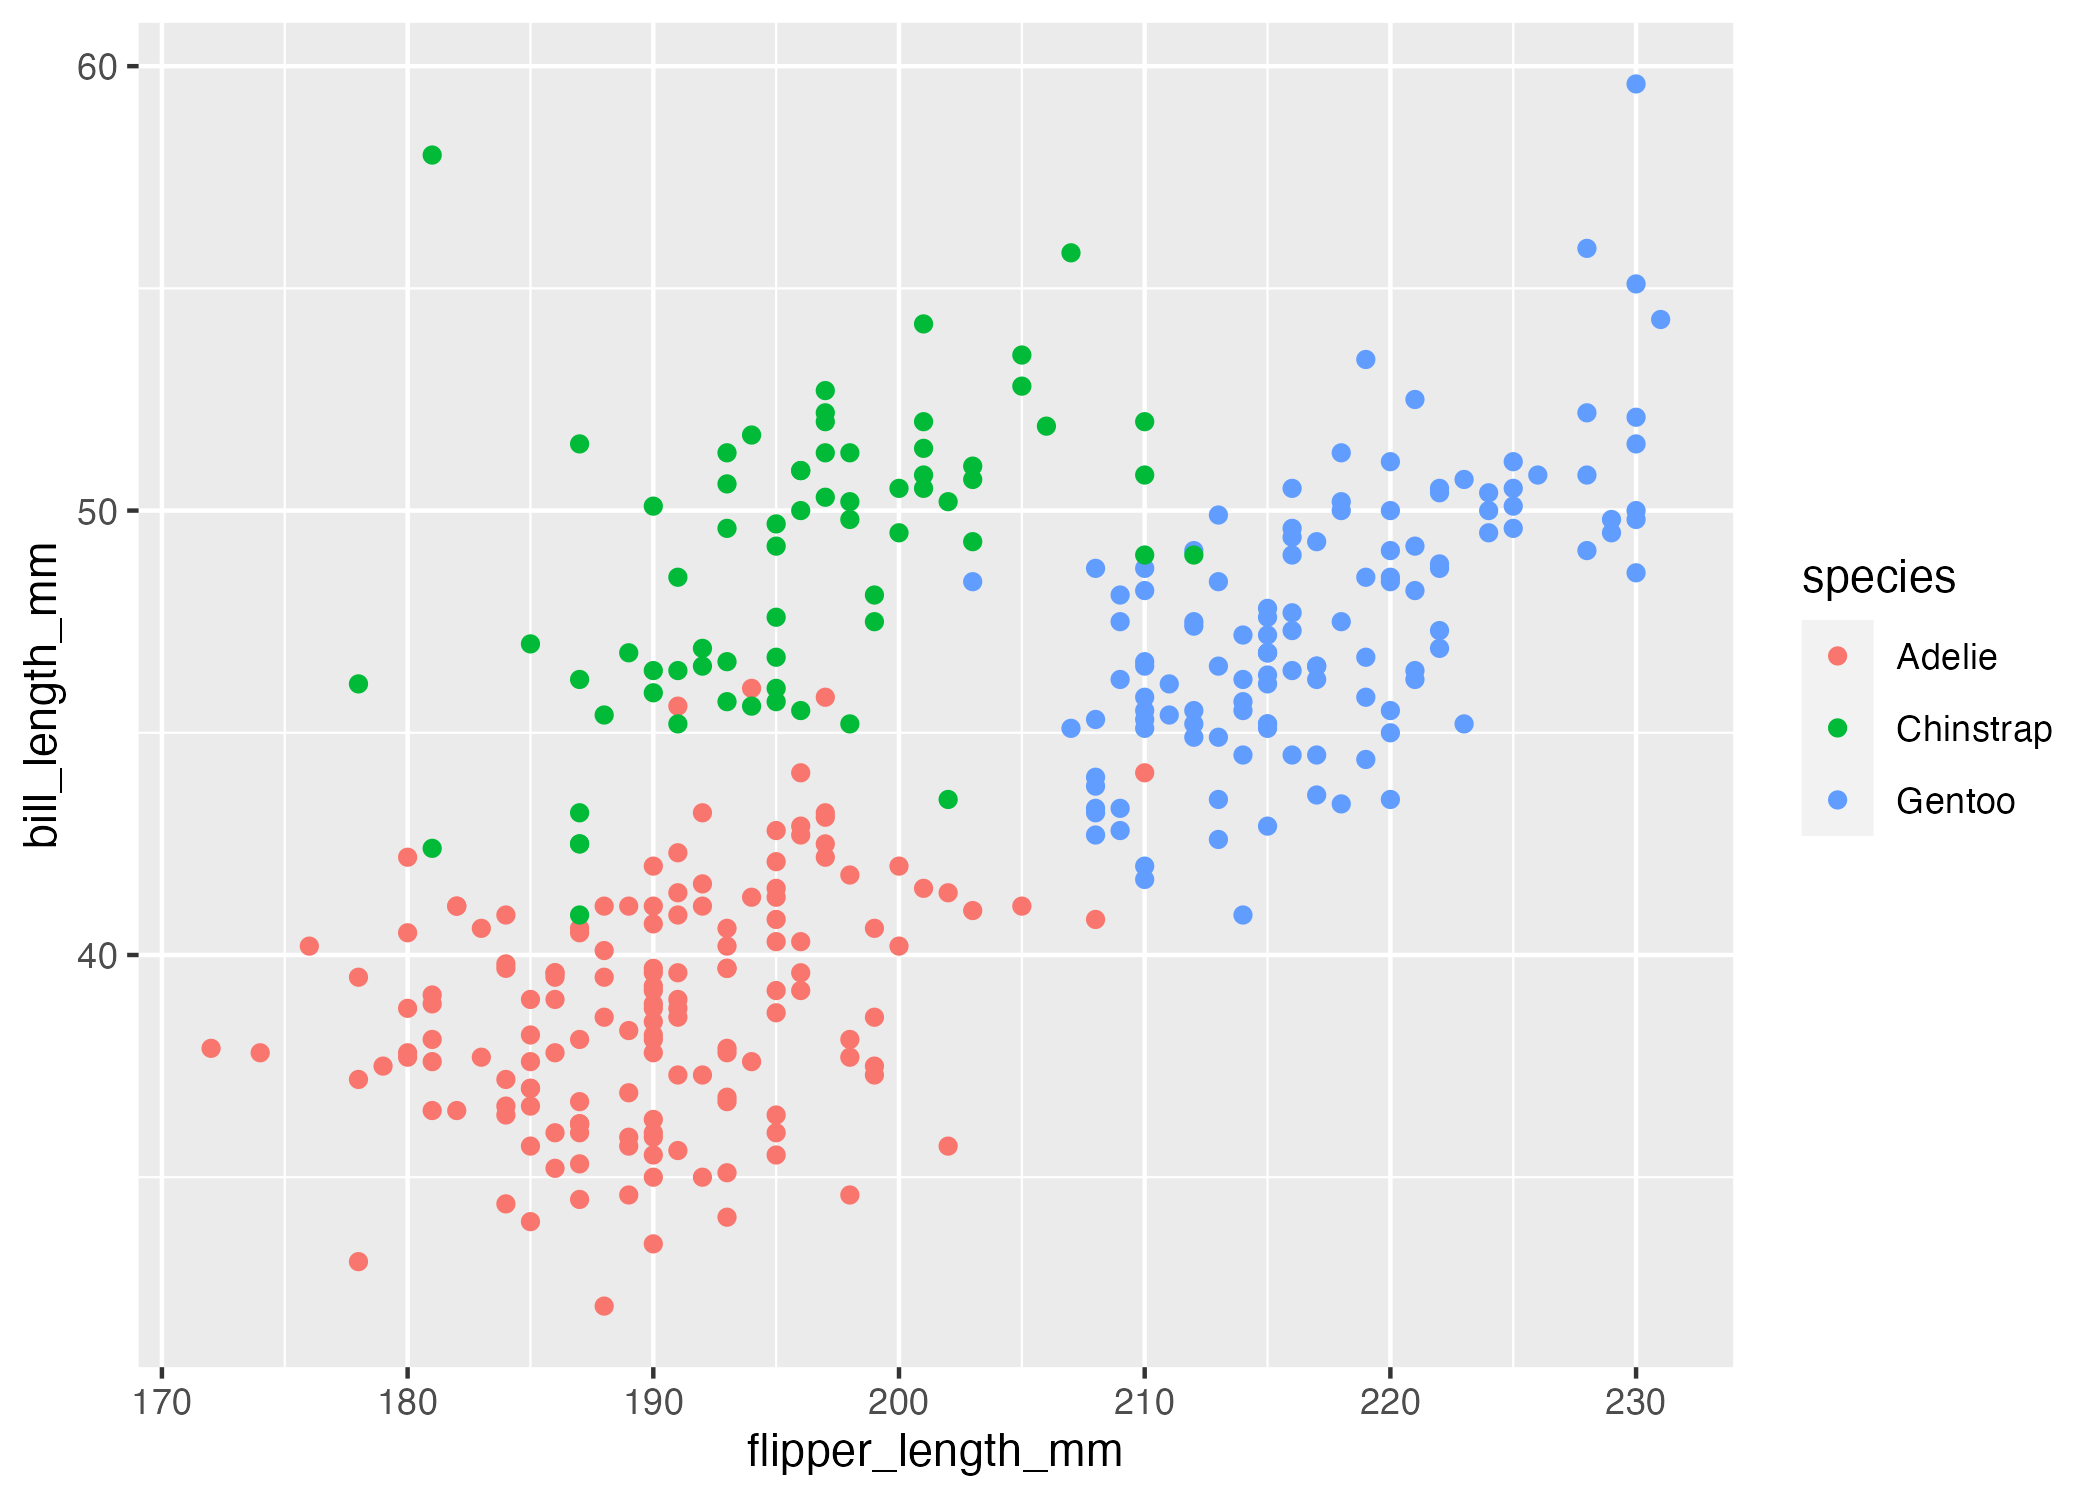
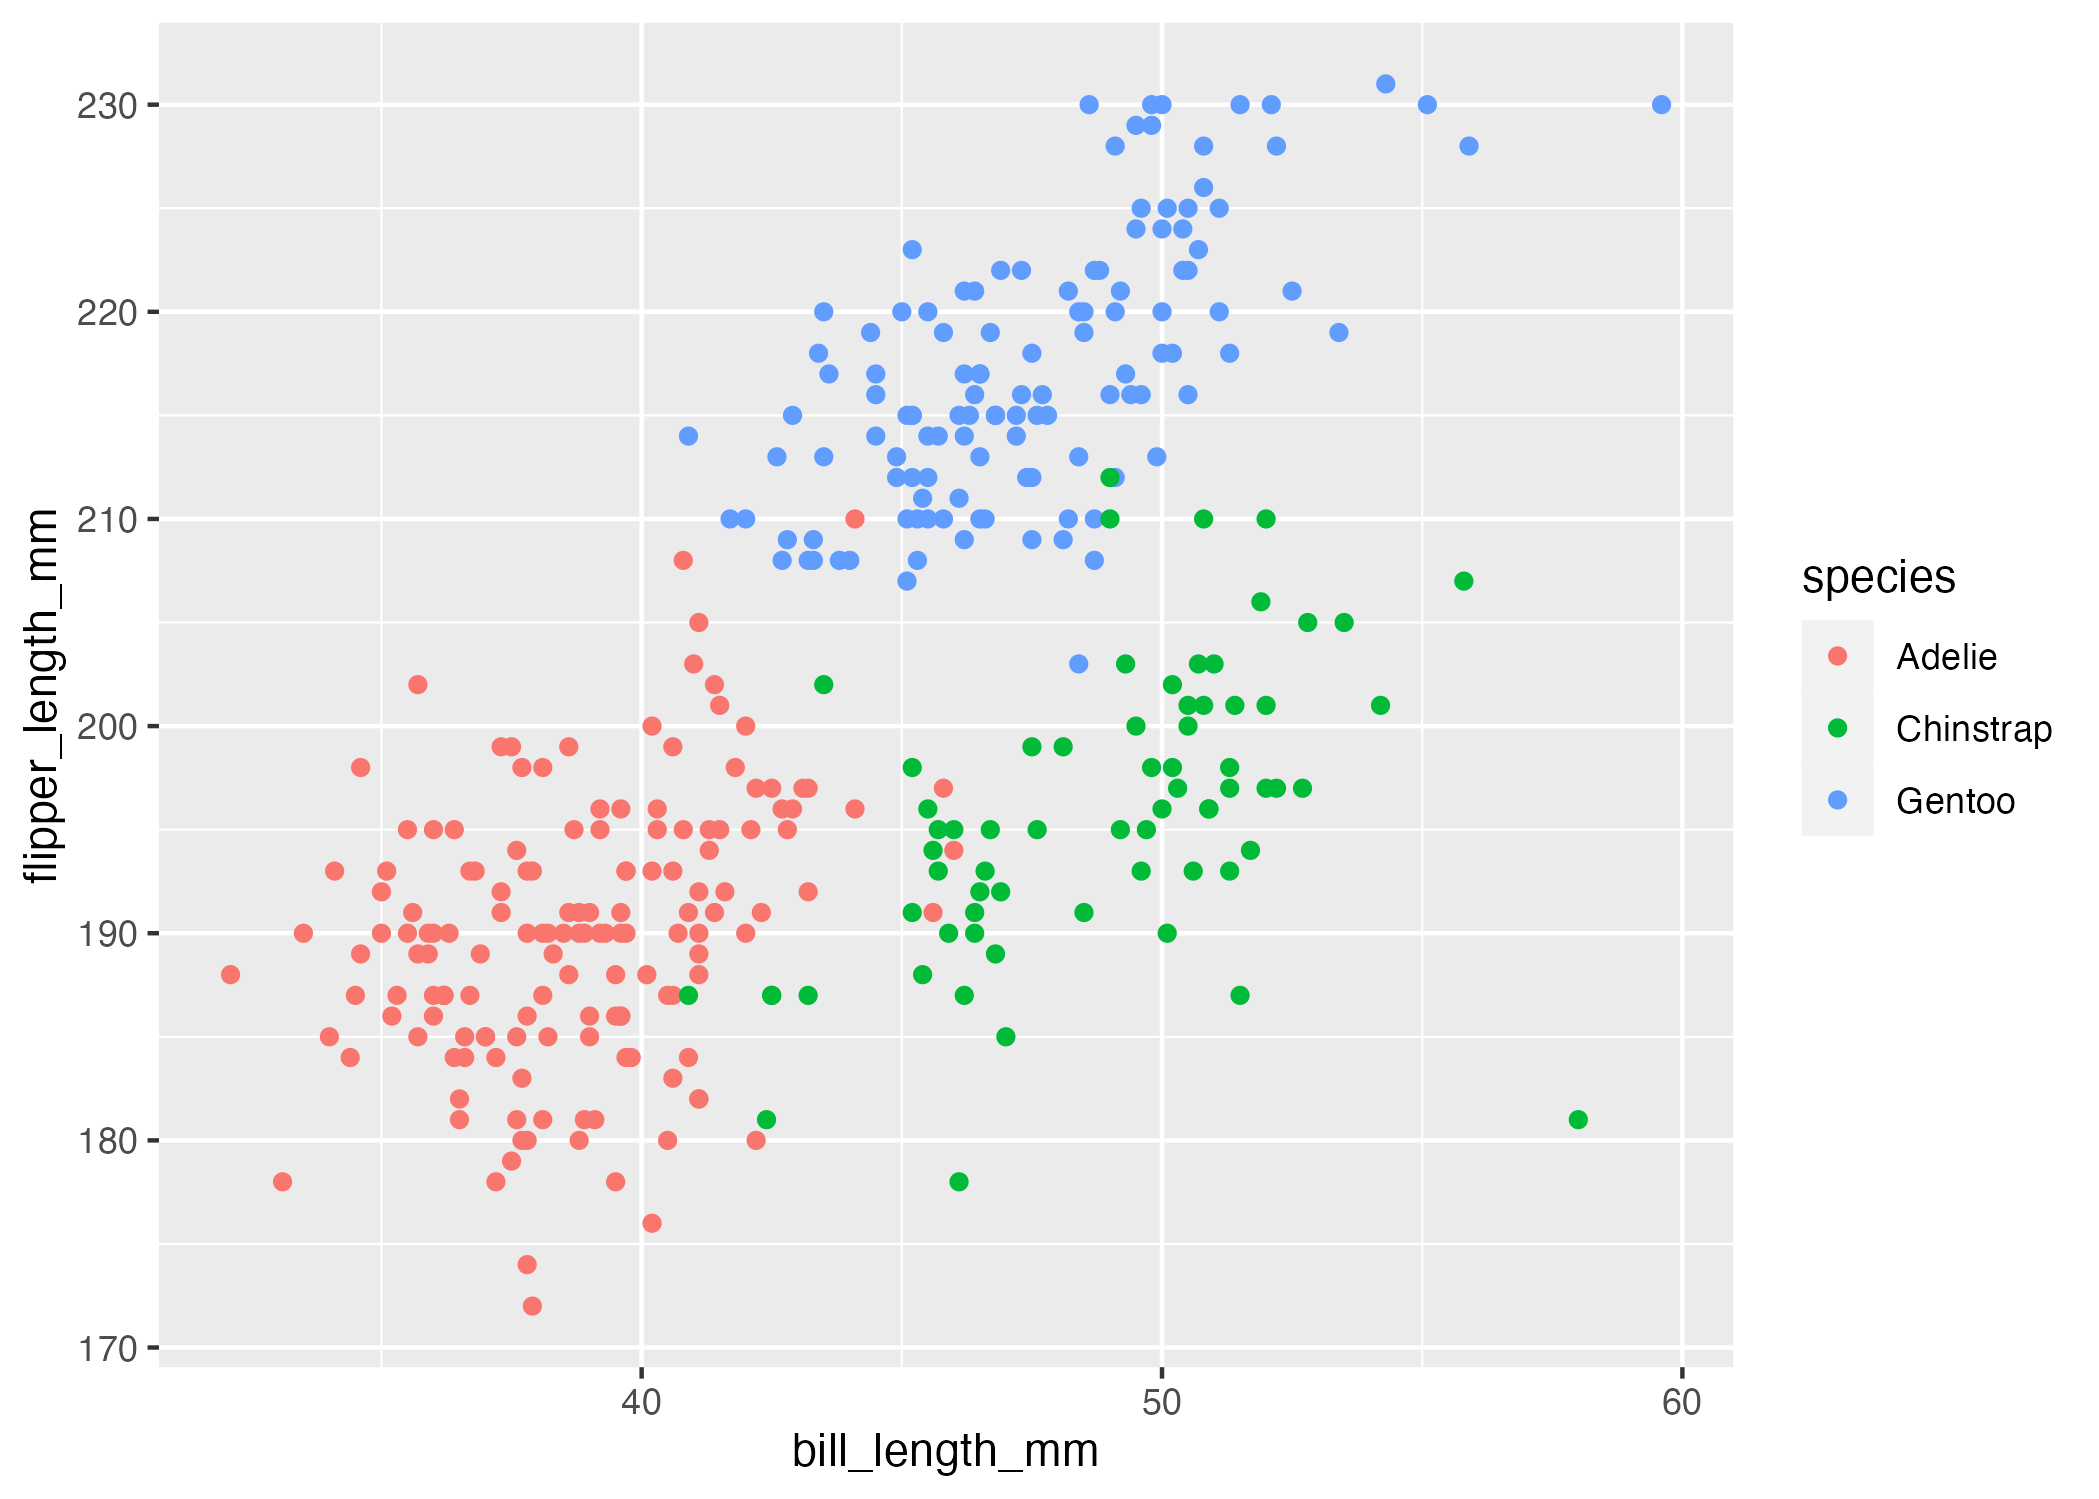
Correct a mistake in the scatterplot making process

diff --git a/p8105_hw1_jt3387.md b/p8105_hw1_jt3387.md
@@ -30,7 +30,7 @@ Description of the `penguins` dataset:
 Make a scatterplot of `flipper_length_mm` (y) vs `bill_length_mm` (x).
 
 ``` r
-ggplot(penguins, aes(y = bill_length_mm, x = flipper_length_mm, color = species)) + geom_point()
+ggplot(penguins, aes(y = flipper_length_mm, x = bill_length_mm, color = species)) + geom_point()
 ```
 
 ![](p8105_hw1_jt3387_files/figure-gfm/unnamed-chunk-3-1.png)<!-- -->
